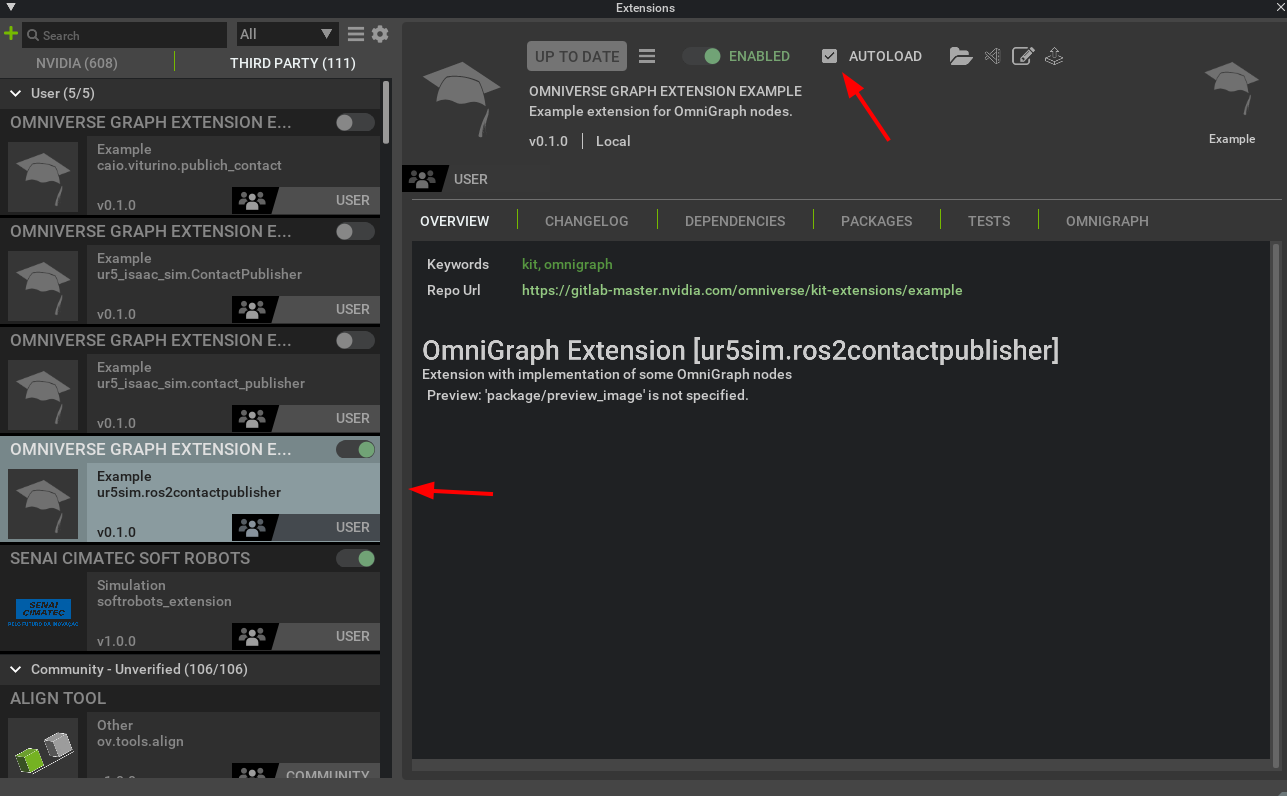
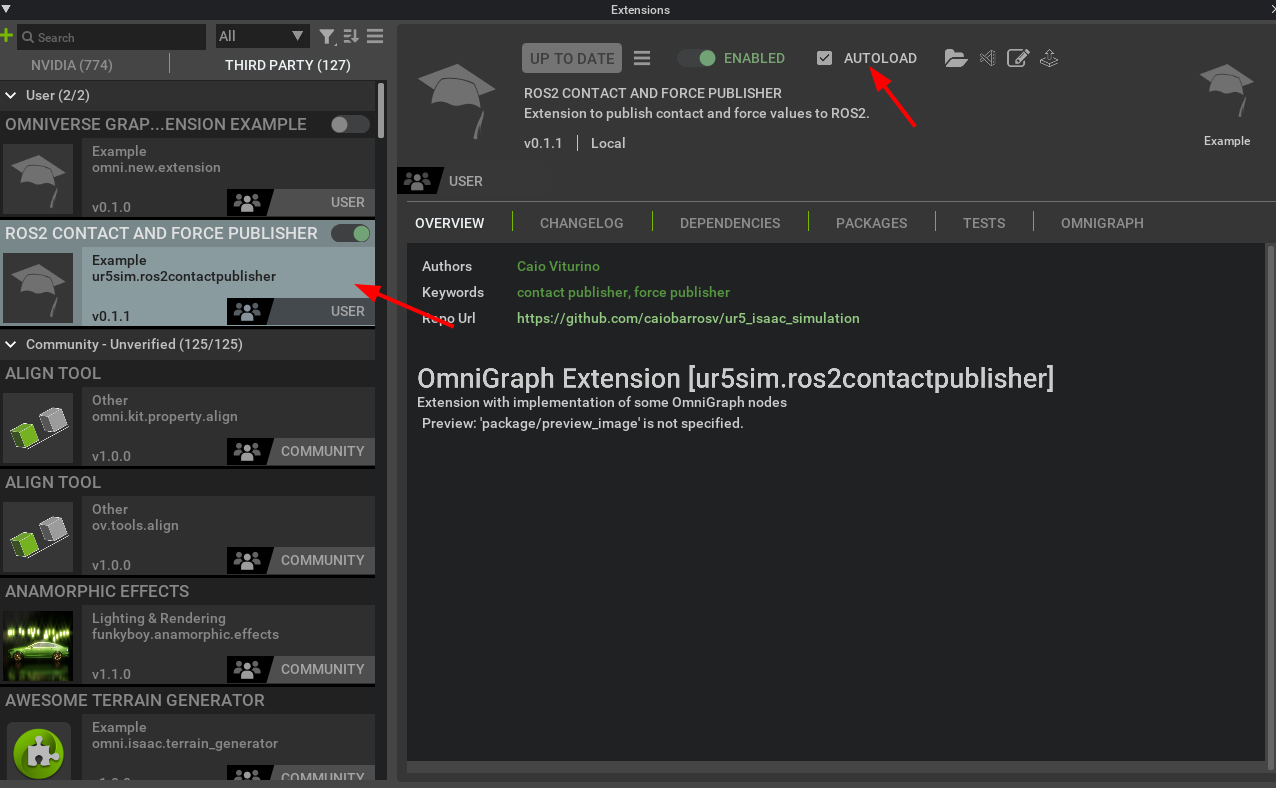
Update readme and images

diff --git a/README.md b/README.md
@@ -1,11 +1,13 @@
 - [1. Overview](#1-overview)
 - [2. Maintainer](#2-maintainer)
-- [Installation](#installation)
-- [3. Run Isaac Sim](#3-run-isaac-sim)
-  - [3.1. Troubleshooting](#31-troubleshooting)
-- [4. Build](#4-build)
-- [5. Debug](#5-debug)
-- [6. (Optional) Visualize UR5 Frames using the Universal ROS2 Package](#6-optional-visualize-ur5-frames-using-the-universal-ros2-package)
+- [3. Installation](#3-installation)
+  - [3.1. Extension Activation](#31-extension-activation)
+  - [3.2. Dependencies](#32-dependencies)
+- [4. Run Isaac Sim](#4-run-isaac-sim)
+  - [4.1. Troubleshooting](#41-troubleshooting)
+- [5. Build](#5-build)
+- [6. Debug](#6-debug)
+- [7. (Optional) Visualize UR5 Frames using the Universal ROS2 Package](#7-optional-visualize-ur5-frames-using-the-universal-ros2-package)
 
 
 ---
@@ -26,29 +28,35 @@ This repository contains the environment to run and test algorithms for the UR5 
 # 2. Maintainer
 
 **Authors:** Caio Viturino
-**Affiliation:** UFBA (PhD Candidate) / SENAI SIMATEC (Robotics Specialist)
+**Affiliation:** SENAI SIMATEC (Robotics Specialist)
 **Maintainers:** Caio Viturino (engcaiobarros@gmail.com / caio.viturino@fieb.org.br)
 
 The `ur5_isaac_simulation` package has been tested under [ROS] Humble and Ubuntu 22.04. 
 
 | OS | ROS | Isaac Sim | CUDA | Nvidia Driver |
 | :---: | :---: | :---: | :---: | :---: |
-| Ubuntu 22.04 | ROS2 Humble | 2022.2.1 | 12.0 | 525.105.17
+| Ubuntu 22.04 | ROS2 Humble | 2023.1.1 | 12.0 | 525.105.17
 
-⚠ Please check the minimum hardware requirement to run ISAAC SIM in this [website](https://docs.omniverse.nvidia.com/app_isaacsim/app_isaacsim/requirements.html#isaac-sim-short-system-requirements). It is highly recommended to have at least an RTX 3060 GPU.
+> :warning: Please note that this extension only works with **Isaac Sim 2023.1.1**
+> Also check the minimum hardware requirement to run ISAAC SIM in this [website](https://docs.omniverse.nvidia.com/app_isaacsim/app_isaacsim/requirements.html#isaac-sim-short-system-requirements). It is highly recommended to have at least an RTX 3060 GPU.
+
 
 The simplest way to install the nvidia driver is to go to "Additional drivers" and choose `"using NVIDIA driver metapackage from nvidia-driver-525 (proprietary)"`. If you have any trouble installing this driver, uninstall the all the nvidia drivers before installing a new one: 
 ```bash
 sudo apt-get remove --purge '^nvidia-.*'
 ```
 ---
-# Installation
+# 3. Installation
 
-Add the isaac_extensions folder to the extension path and activate the extension. Mark the option AUTOLOAD.
+## 3.1. Extension Activation
+Add the exts/exts folder to the extension path and activate the extension. Mark the option AUTOLOAD.
 
+![Extension Configuration](images/extension_contact_ext.png)
 ![Extension Configuration](images/extension_contact.png)
 ![Extension Configuration](images/extension_contact2.png)
 
+
+## 3.2. Dependencies
 Please install the following before proceeding:
 
 ```bash
@@ -57,12 +65,12 @@ sudo apt install ros-humble-vision-msgs ros-humble-control-msgs \
   ros-humble-xacro
 ```
 
-First time using ROS? You'll probably need one of these:
+First time using ROS2? You'll probably need to install colcon-common-extensions:
 ```bash
 pip install -U colcon-common-extensions
 ```
 ---
-# 3. Run Isaac Sim
+# 4. Run Isaac Sim
 
 - The following launch file executes the UR5 and Robotiq 2F-140 controllers and also opens RVIZ2:
 ```bash
@@ -74,7 +82,7 @@ ros2 launch ur5_isaac_simulation ur5_isaac_ros2.launch.py
 ros2 run ur5_isaac_simulation ur5_isaac_ros2
 ```
 
-## 3.1. Troubleshooting
+## 4.1. Troubleshooting
   - Isaac Sim takes some time to load when the following warning message appears. In this case, just wait a few seconds (280 or more depending on your GPU).
     ```bash
     [Warning] [gpu.foundation.plugin] Waiting for compilation of ray tracing shaders by GPU driver: 30 seconds so far
@@ -85,7 +93,7 @@ ros2 run ur5_isaac_simulation ur5_isaac_ros2
     ```
 
 ---
-# 4. Build
+# 5. Build
  - Clone this repository inside your src folder
    ```bash
    cd YOUR_WORKSPACE/src
@@ -116,7 +124,7 @@ ros2 run ur5_isaac_simulation ur5_isaac_ros2
     ```
 
 ---
-# 5. Debug
+# 6. Debug
 
 In order to debug the ROS2 nodes, follow the steps:
 - Install this [ROS Extension](https://marketplace.visualstudio.com/items?itemName=ms-iot.vscode-ros).
@@ -132,7 +140,7 @@ In order to debug the ROS2 nodes, follow the steps:
     },
   ```
 
-# 6. (Optional) Visualize UR5 Frames using the Universal ROS2 Package
+# 7. (Optional) Visualize UR5 Frames using the Universal ROS2 Package
 
 You might want to visualize the UR5 frames in order to study direct or inverse kinematics.
 Follow the next steps to visualize the UR5 frames in RVIZ and control it using joint state publisher.
